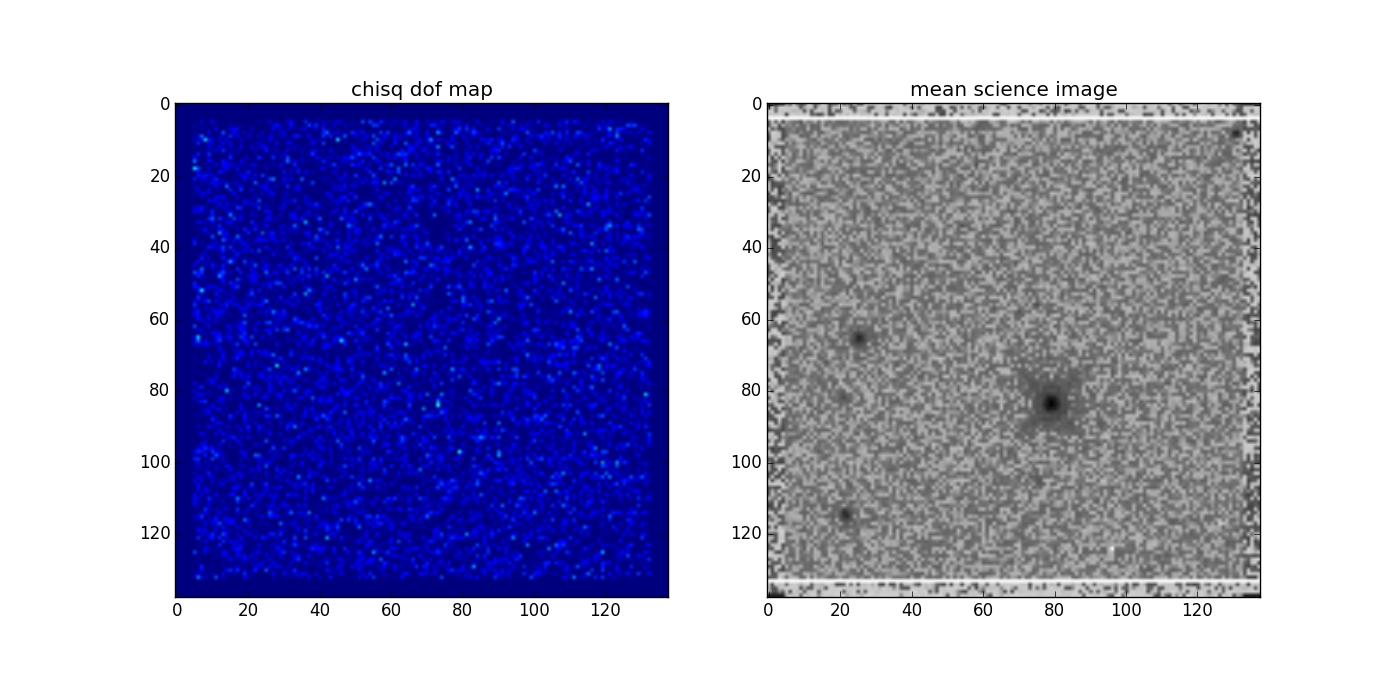
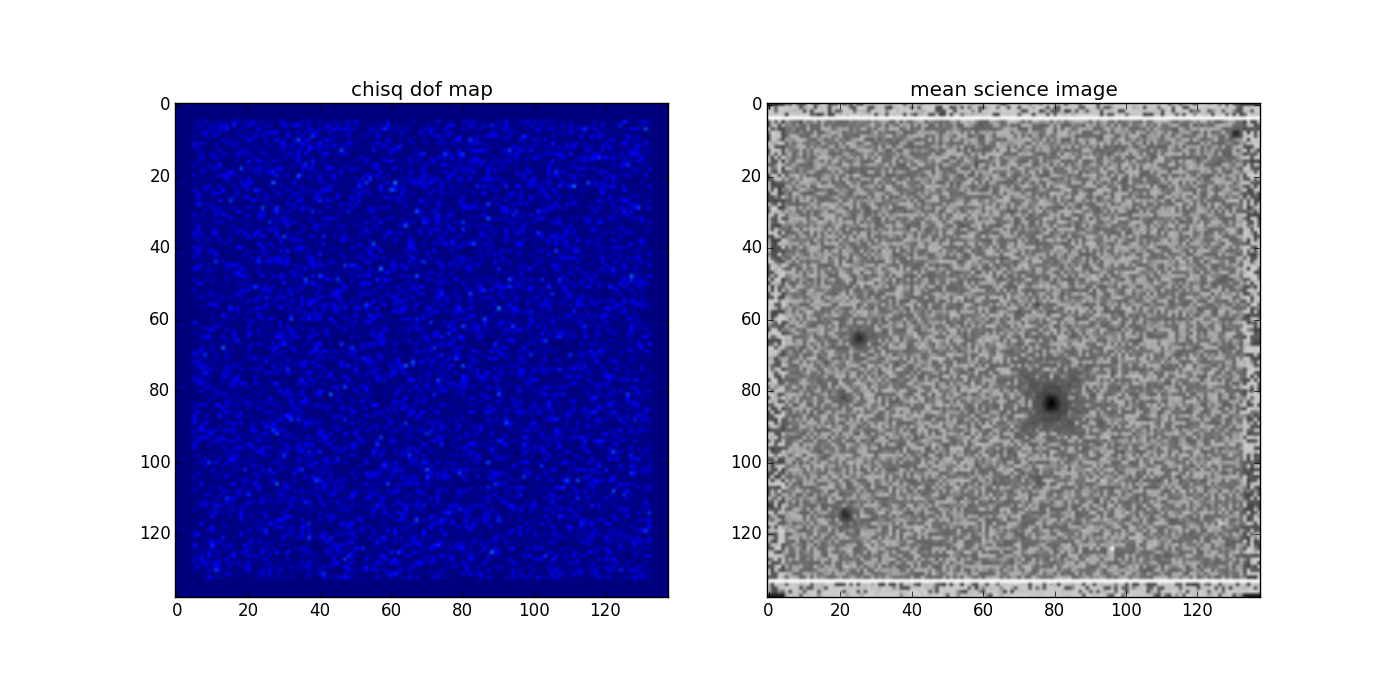
Average of science cube instead of np.mean

Changed region(s): [[0.1229, 0.15, 0.4914, 0.84]]

diff --git a/pixel_linearity_test.py b/pixel_linearity_test.py
@@ -103,7 +103,7 @@ def get_simulated_array (delta_time=10, n_ext=10):
 
 
 def make_chi2_map(sci_arr, err_arr, mask_arr):
-    mean_image = np.mean(sci_arr,axis=0)
+    mean_image = np.average(sci_arr,weights=1.0/err_arr**2, axis=0)
     deviant_arr = sci_arr - np.expand_dims(mean_image,axis=0)
     chisq = np.sum((deviant_arr/err_arr)**1,axis=0)
     chisq_dof = chisq*1./sci_arr.shape[0]
@@ -163,9 +163,9 @@ def main(argv):
 
     fig2, ax4 = plt.subplots(nrows=1,ncols=1,figsize=(7,7))
     #ax3.plot(image.flatten(),theMap.flatten(),',')
-    im_filtered_min, im_filtered_max = np.percentile (np.abs(image_filtered[use].flatten()), [5,95]  )
-    ax4.hist2d(np.abs(image_filtered[use].flatten()),np.abs(theMap[use].flatten()),norm=LogNorm(),
-               bins = [np.linspace(im_filtered_min - 0.5*np.abs(im_filtered_min), im_filtered_max +  0.5*np.abs(im_filtered_max),100),np.linspace(0,1.0,100)])
+    im_filtered_min, im_filtered_max = np.percentile ((image_filtered[use].flatten()), [5,95]  )
+    ax4.hist2d((image_filtered[use].flatten()),(theMap[use].flatten()),norm=LogNorm(),
+               bins = [np.linspace(im_filtered_min - 0.5*np.abs(im_filtered_min), im_filtered_max +  0.5*np.abs(im_filtered_max),100),np.linspace(-2.0,2.0,100)])
                #norm=LogNorm())
     ax4.axhline (0., linestyle="--")
     ax4.set_xlabel("(Laplacian filtered image value)**2")
